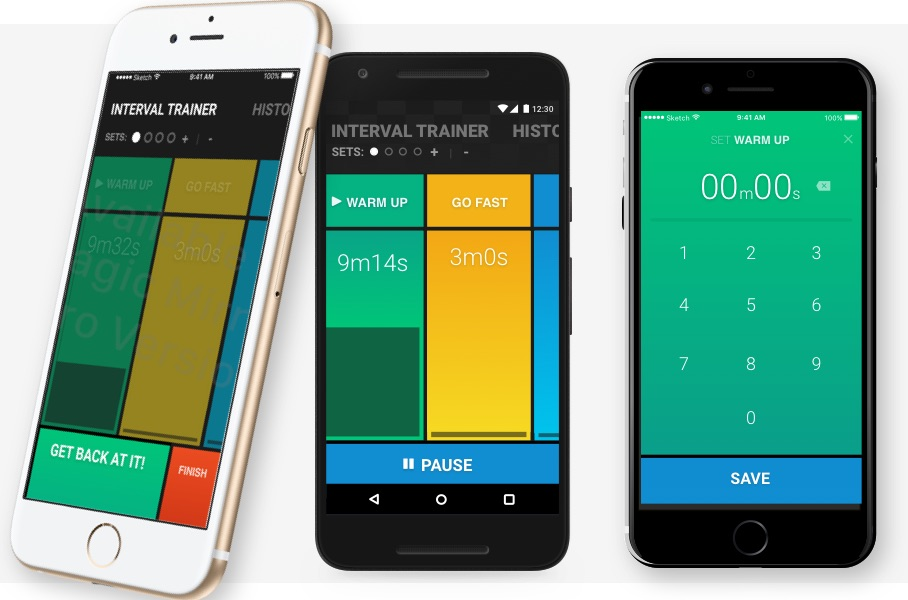
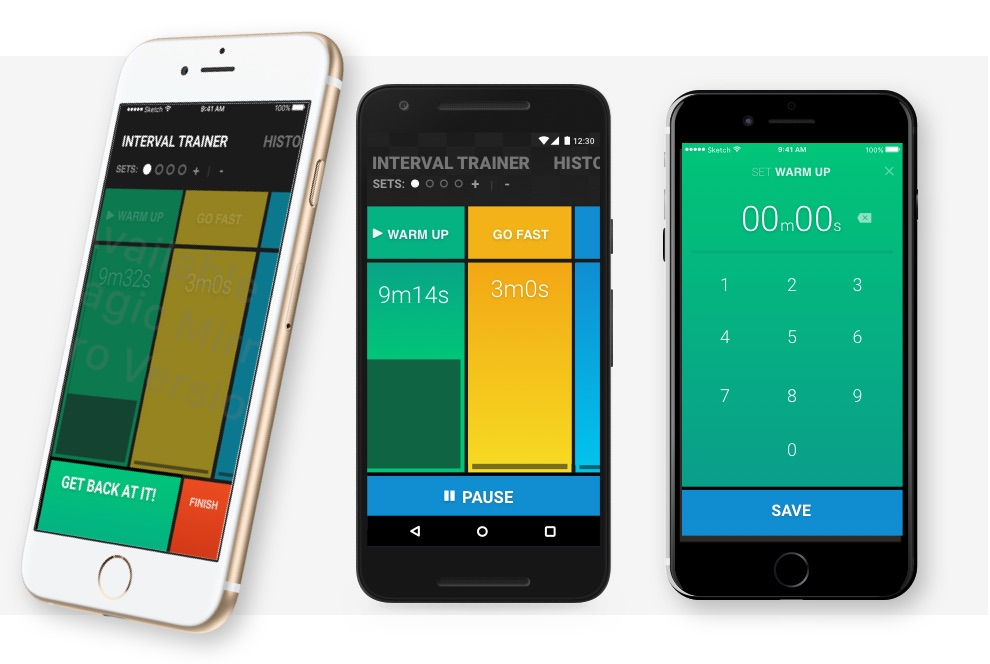
mo content mo mo problems

diff --git a/_sass/_splash.scss b/_sass/_splash.scss
@@ -296,8 +296,9 @@ section {
 #work {
     > div { height: 85vh; }
     .c-right {
-        background: url(/img/interval.jpg) no-repeat center left;
-        background-size: 100%;
+        background: url(/img/interval@2x.jpg) no-repeat center left;
+        background-size: 990px;
+        background-position: 2rem 0;
     }
 }
 #platform {
